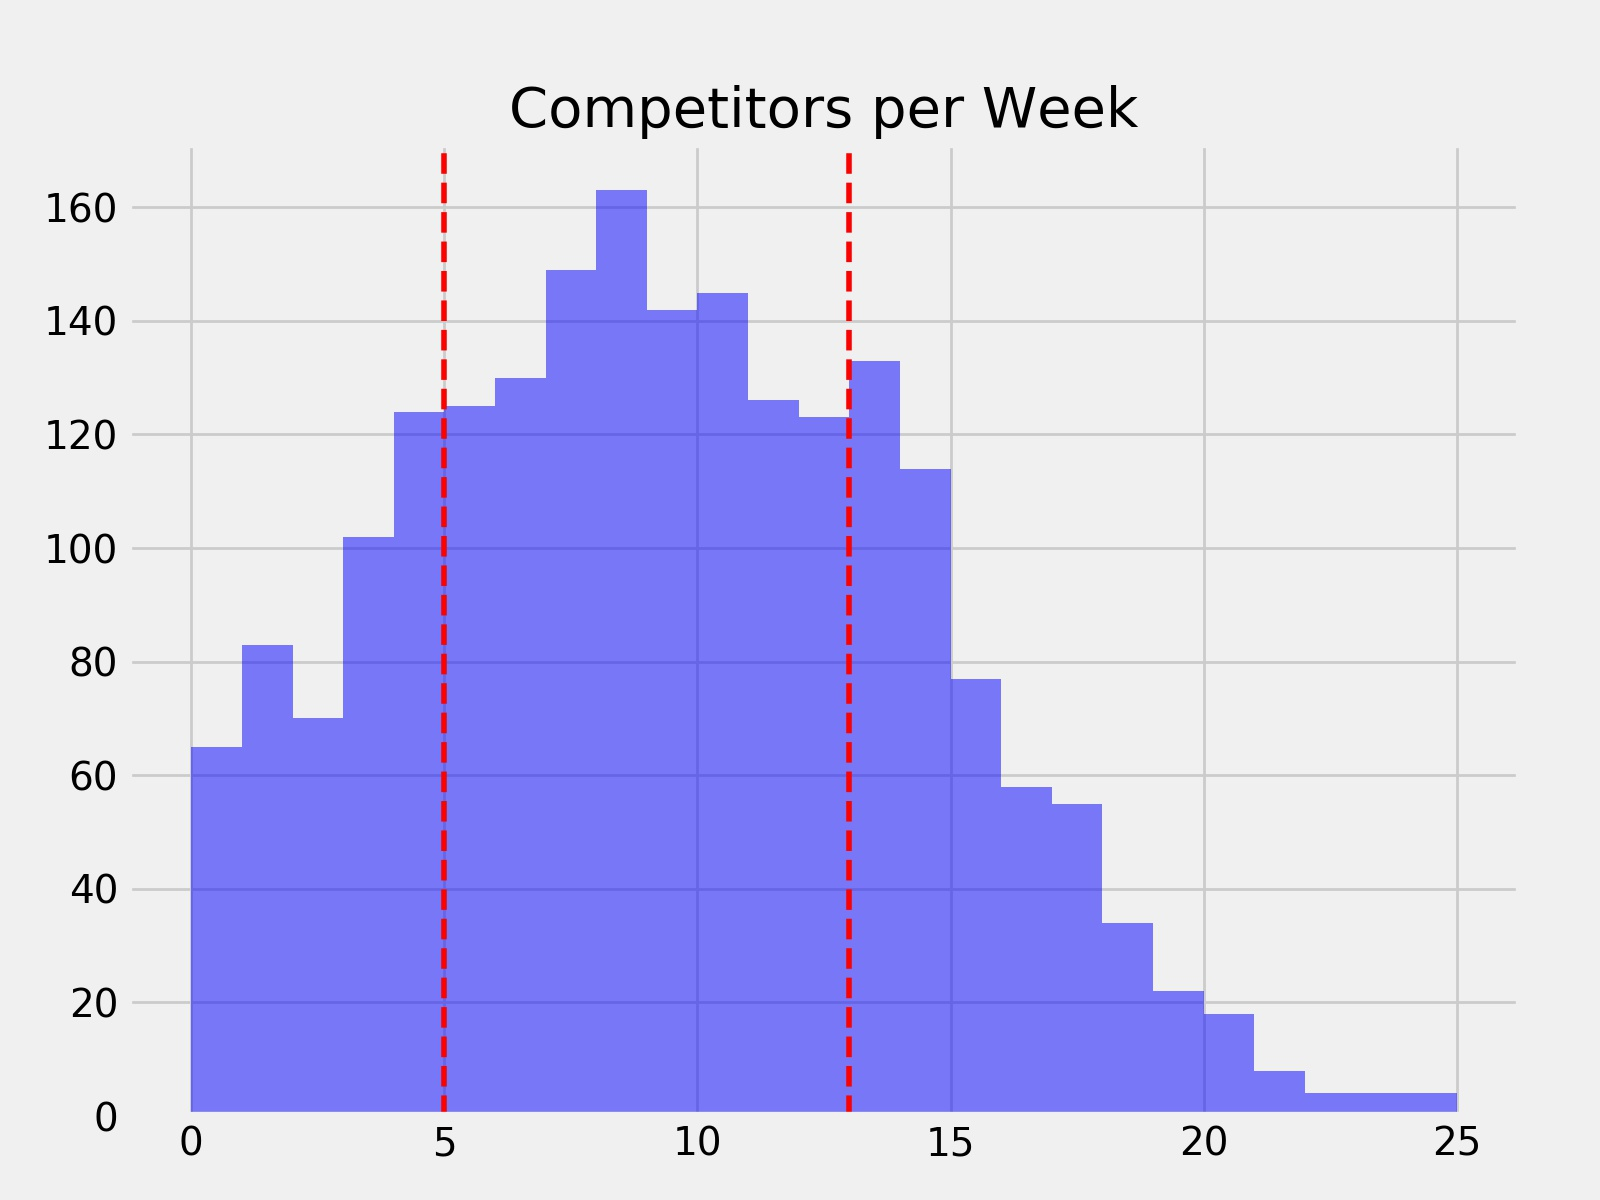
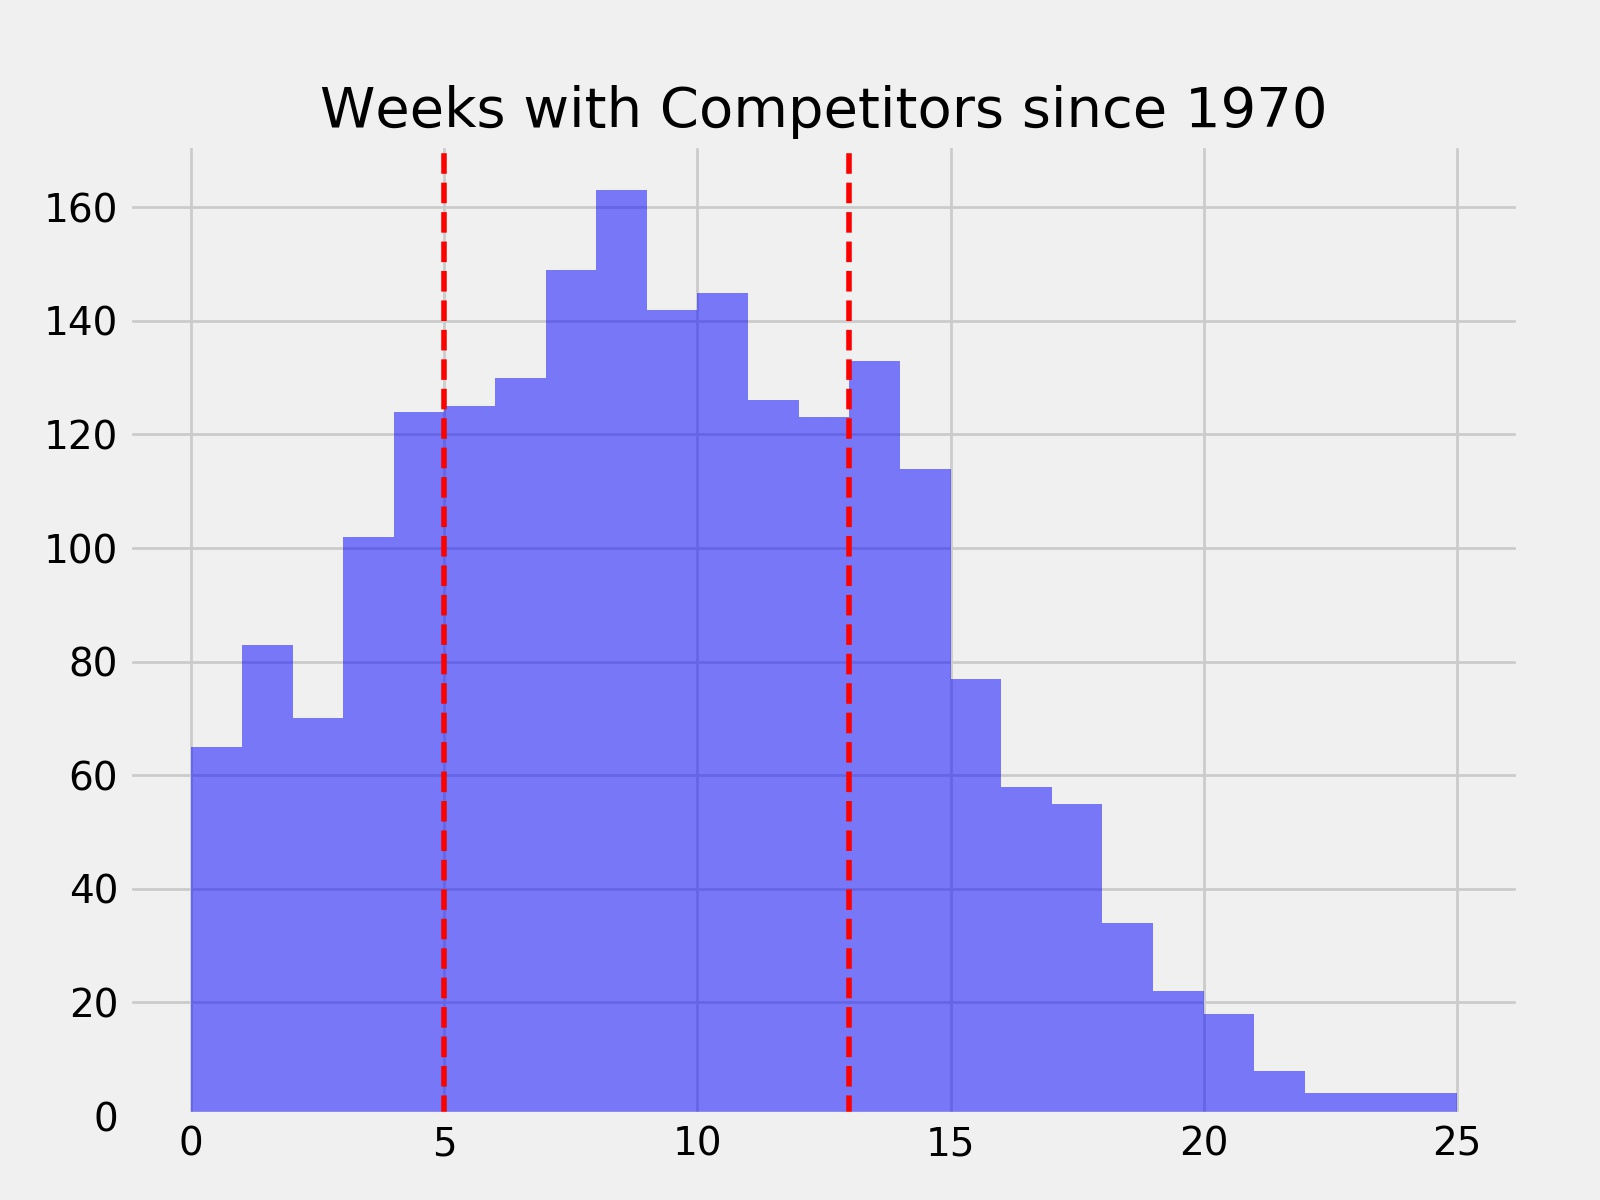
done wednesday

Changed region(s): [[0.1875, 0.0617, 0.7188, 0.1233], [0.75, 0.0617, 0.8438, 0.1233]]

diff --git a/src/analysis.py b/src/analysis.py
@@ -78,6 +78,7 @@ test_statistic = 1 - stats.norm.cdf(z, 0, 1)
 ss_z_score, ss_test_stat = ztest(prime_results, not_prime_results, value = 0, alternative = 'larger')
 
 # hypothesis test #2 - does a lot of competition matter - 2 comparisons low v mid, high v mid
+competitor_df = m_df2.groupby(['release_year', 'release_week']).agg({'competitors': 'mean'})
 high_comp_threshold = 13
 low_comp_threshold = 5
 m1 = competitor_df['competitors'] <= low_comp_threshold
@@ -89,11 +90,10 @@ all_count = competitor_df.count()
 print(low_comp_count/all_count, high_comp_count / all_count)
 
 fig, ax = plt.subplots(1, 1, figsize = (8,6))
-competitor_df = m_df2.groupby(['release_year', 'release_week']).agg({'competitors': 'mean'})
 ax.hist(competitor_df['competitors'], bins = 25, color = 'b', alpha = 0.5, align = 'mid')
 ax.axvline(low_comp_threshold, color = 'r', linestyle = '--', linewidth = 2)
 ax.axvline(high_comp_threshold, color = 'r', linestyle = '--', linewidth = 2)
-ax.set_title('Competitors per Week')
+ax.set_title('Weeks with Competitors since 1970')
 plt.savefig('images/competitor_hist.jpeg')
 plt.close()
 
@@ -107,16 +107,35 @@ mid_comp_results = m_df2['is_success'][-m1 & -m2]
 low_z_score, low_test_stat = ztest(low_comp_results, mid_comp_results, value = 0, alternative = 'larger')
 high_z_score, high_test_stat = ztest(high_comp_results, mid_comp_results, value = 0, alternative = 'smaller')
 
+# Break out 2000s for separate hypo test
+m1 = m_df2['release_year'] >= 2000
+movies_2000s_df = m_df2[m1].copy()
+competitor_df = movies_2000s_df.groupby(['release_year', 'release_week']).agg({'competitors': 'mean'})
+high_comp_threshold = 16
+low_comp_threshold = 9
+low_mask = movies_2000s_df['competitors'] <= low_comp_threshold
+high_mask = movies_2000s_df['competitors'] >= high_comp_threshold
+low_comp_count = movies_2000s_df['is_success'][low_mask].count()
+high_comp_count = movies_2000s_df['is_success'][high_mask].count()
+print(low_comp_count, high_comp_count, movies_2000s_df['competitors'].count() - low_comp_count - high_comp_count)
 
 
-# scatter plot of perf_ratio and budget_IA
-# DONT USE THIS.....
-# fig, ax = plt.subplots(1, 1, figsize = (10,7))
-# ax.scatter(m_df2['perf_ratio'], m_df2['budget_IA'])
-# ax.set_xlim(0, 10)
-# ax.set_ylim(0, 100000000)
-# plt.savefig('images/perf_scatter.jpeg')
-# plt.close()
+fig, ax = plt.subplots(1, 1, figsize = (8,6))
+competitor_df = movies_2000s_df.groupby(['release_year', 'release_week']).agg({'competitors': 'mean'})
+ax.hist(competitor_df['competitors'], bins = 24, color = 'b', alpha = 0.5, align = 'mid')
+ax.axvline(low_comp_threshold, color = 'r', linestyle = '--', linewidth = 2)
+ax.axvline(high_comp_threshold, color = 'r', linestyle = '--', linewidth = 2)
+ax.set_title('Weeks with Competitors since 2000')
+plt.savefig('images/competitor_hist_2000.jpeg')
+plt.close()
+
+# Get the separate sets by high, mid, low competitive sets
+alpha = 0.025
+high_comp_results = movies_2000s_df['is_success'][high_mask]
+low_comp_results = movies_2000s_df['is_success'][low_mask]
+mid_comp_results = movies_2000s_df['is_success'][-low_mask & -high_mask]
+low_z_score, low_test_stat = ztest(low_comp_results, mid_comp_results, value = 0, alternative = 'larger')
+high_z_score, high_test_stat = ztest(high_comp_results, mid_comp_results, value = 0, alternative = 'smaller')
 
 # performance by genre, prime v not prime
 g_dict = {}
@@ -169,5 +188,8 @@ fig, ax = plt.subplots(1, 1, figsize = (8,6))
 ax.scatter(comp_df['competitors'], comp_df['success_rate'])
 plt.savefig('images/comp_scatter.jpeg')
 plt.close()
+
+
+
 if __name__ == '__main__':
     pass

diff --git a/src/movies.py b/src/movies.py
@@ -110,7 +110,7 @@ fig, ax = plt.subplots(1, 1, figsize = (8,6))
 x = np.arange(52)
 ax.bar(x, rel_week_df['total_budget'], color = 'b', alpha = 0.5, label = 'Total Budget')
 ax.set_title('Total Budget by Week')
-ax.set_yticklabels([f'${x:0.0f}M' for x in np.linspace(0, 800, 5)])
+ax.set_yticklabels([f'${x:0.0f}M' for x in np.linspace(0, 800, 9)])
 plt.tight_layout(pad = 1)
 plt.savefig('images/budget.jpeg')
 plt.close()
@@ -153,26 +153,11 @@ ax[2].axvline(pw_ends[0], color = 'r', linestyle = '--', linewidth = 2)
 ax[2].axvline(pw_starts[1], color = 'r', linestyle = '--', linewidth = 2)
 ax[2].axvline(pw_ends[1], color = 'r', linestyle = '--', linewidth = 2)
 plt.tight_layout(pad = 2)
-plt.savefig('images/comparison.jpeg')
+plt.savefig('images/comparison_hilite.jpeg')
 plt.close()
 
 # Add an is_prime flag
 m_df2['is_prime'] = m_df2.apply(lambda row: mf.determine_prime(row['release_week'], pw_starts, pw_ends), axis = 1)
-
-# # Calculate the differences between success and budget/supply
-# diff1 = rel_week_df['marg_success_rate'] - rel_week_df['mean_budget_norm'] 
-# c1 = ['g' if x > 0 else 'r' for x in diff1]
-# diff2 = rel_week_df['marg_success_rate'] - rel_week_df['supply_norm']
-# c2 = ['g' if x > 0 else 'r' for x in diff2]
-
-# # Create a horizontal bar chart for the differences....
-# fig, ax = plt.subplots(1,2, figsize = (10,14))
-# xloc = np.arange(len(rel_week_df['mean_budget_norm']))
-# ax[0].barh(xloc[::-1], diff1[::-1], align = 'center', alpha = 0.4, color = c1, label = 'Success v Budget')
-# ax[1].barh(xloc[::-1], diff2[::-1], align = 'center', alpha = 0.4, color = c2, label = 'Success v Supply')
-# plt.legend()
-# plt.savefig('images/differences.jpeg')
-# plt.close()
 
 # create competitive films column (films released week before and week after)
 m_df2['competitors'] = m_df2.apply(lambda row: mf.competitor_count(row['release_week'], row['release_year'], m_df2), axis = 1)

diff --git a/presentation.md b/presentation.md
@@ -49,21 +49,29 @@ The difference here would be commonly conceived of as the profit:
 
 ![Total profit over the year](images/profit.jpeg)
 
-But, this doesn't really tell the whole story for a couple of reasons. First, the publicly available data for the budget of a film does not include any costs other than the production of the film itself. It excludes marketing costs (a HUGE number - commonly considered to be 75-100% of the budget of the film) and all other overhead. 
+But, this doesn't really tell the whole story for a couple of reasons. First, the publicly available data for the budget of a film does not include any costs other than the production of the film itself. It excludes marketing costs (a HUGE number - commonly considered to be 60-100% of the budget of the film) and all other overhead. 
 
 Second, wildly successful films play an outsized role in profit generation. In some ways, the movie business is resistant to analysis of raw numbers; real success is all about outliers. It only takes one *Titanic* to pay for a lot of *Sharknados*. 
 
 ![Titanic and Sharknado](images/both.jpeg)
 
-For example, the most profitable week of the year is week 50 (Christmas week). In the dataset, there are 133 films released in week 50, but **about 20% (or roughly $5B) of the total profit** of that week is attributable to two films, *Avatar* and *Star Wars: Episode VII*. Massive hits are by definition outliers (and outliers are hard to predict or analyze). 
+For example, the most profitable week of the year is week 50 (Christmas week). In the dataset, there are 133 films released in week 50, but **about 20% (or roughly $5B) of the total profit** of that week is attributable to two films, *Avatar* and *Star Wars: Episode VII*. Massive hits like these are by definition outliers (and outliers are hard to predict or analyze). 
 
-Further, even focusing on 'return' alone can be challenging. For example, *The Blair Witch Project* made ~$250M on its paltry $60k budget (roughly a 416,667% return).
+Further, even focusing on 'return' alone can be challenging. For example, *The Blair Witch Project* made ~$250M on its paltry $60k budget (roughly a 416,667% return). Analyzing returns while including these outliers would have the potential to lead us astray.
 
-Thus, for the purposes of this analysis, it makes more sense to focus on commercial success - that is, sufficient return on the investment. Using both my own experience and a small survey of people in the industry, I landed on a threshold of three times the budget in order for a film to be considered commercially successful.
+Thus, for the purposes of this analysis, it makes more sense to focus on commercial success - that is, sufficient return on the investment. Using both my own experience and a small survey of people in the industry, I landed on a threshold of three times the budget in order for a film to be considered commercially successful. Using this metric for success, I plotted the rate of success for films across the year, as well as the mean budget of the films by week, and the 'supply' or count of films per week.
 
-**The big question is whether or not seasonality drives film success more than supply, or at least whether they are close to equally important**
+![Without highlights](images/comparison.jpeg)
+
+Reviewing this, it seemed to me like there are two windows where the studios are focusing their biggest bets (i.e. two windows in which they believe the odds are best for a film to be successful). The mean budgets for these weeks are higher than average and the supply is below average.
+
+![With highlights](images/comparison_hilite.jpeg)
+
+These windows (hereafter referred to as 'prime') run from the 20th to the 32nd weeks, late May to the beginning of August, and the 47th to the 51st weeks, Thanksgiving to the end of year.  **The primary question of this analysis is what role seasonality and supply play in film success.**
 
 ## Hypothesis Test #1 - Prime Window
+
+First, I wanted to test whether or not being released in one of the prime windows has a significant effect on film success.
 
 | Status | Successes | Attempts | Success Rate |
 | --- | --- | --- | --- |
@@ -150,3 +158,4 @@ I filtered down the dataset to just films released this century, some 4600 films
 - z-score = 3.29, test_statistic = 0.0005
 
 - Reject the null - high competition films underperform middle competition films
+
